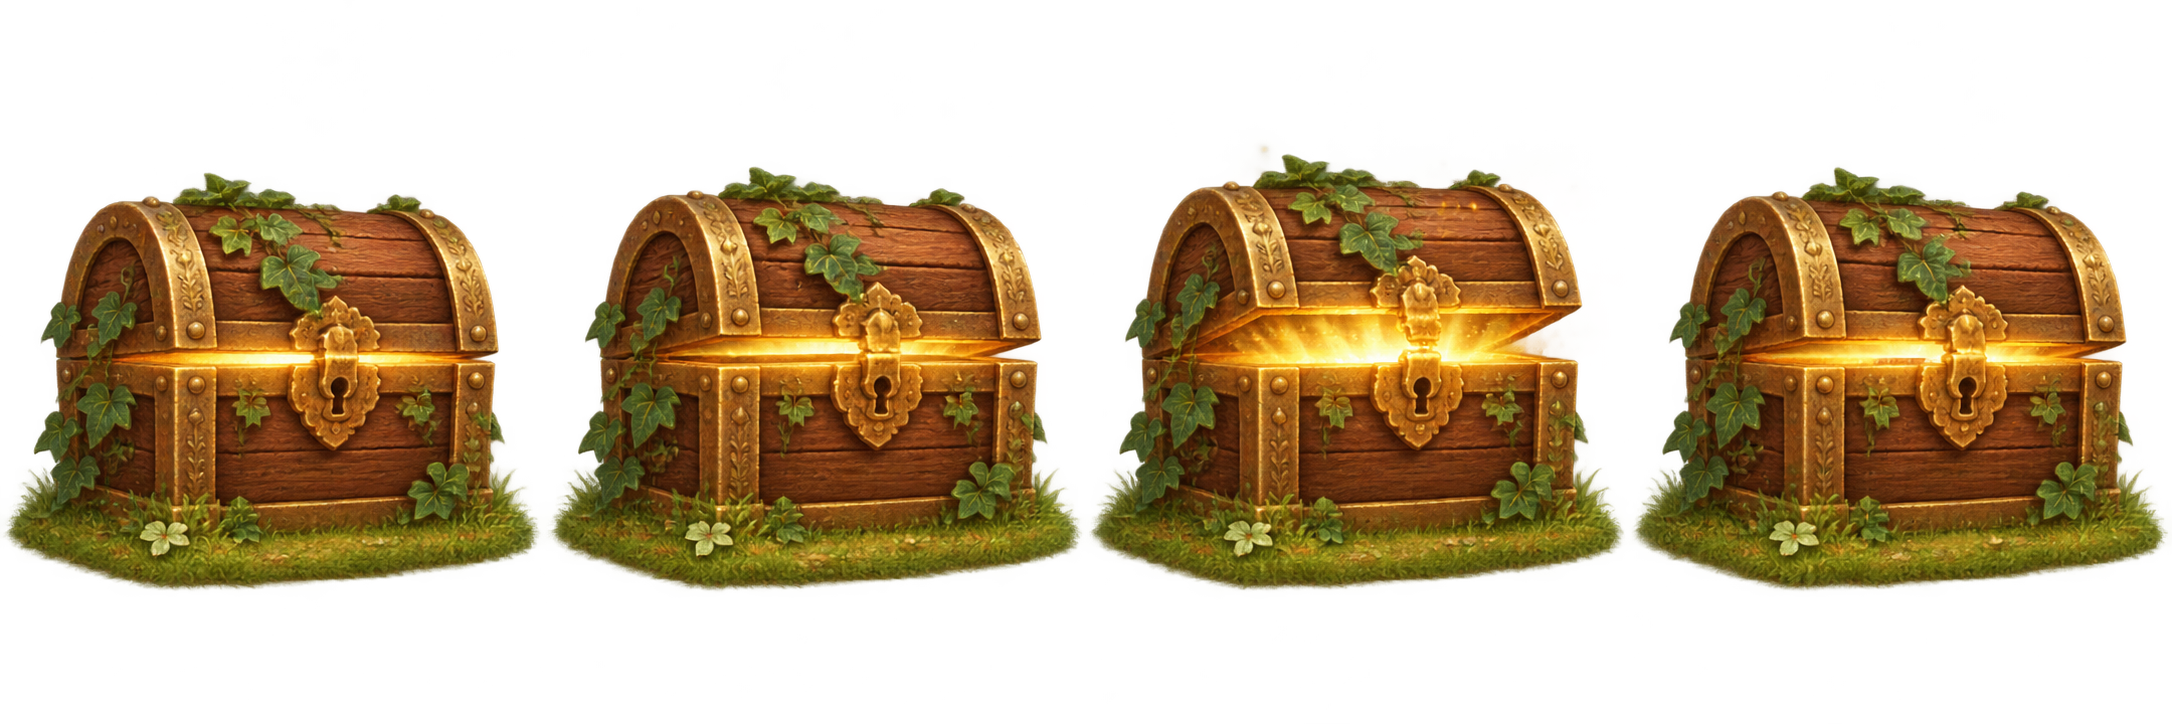
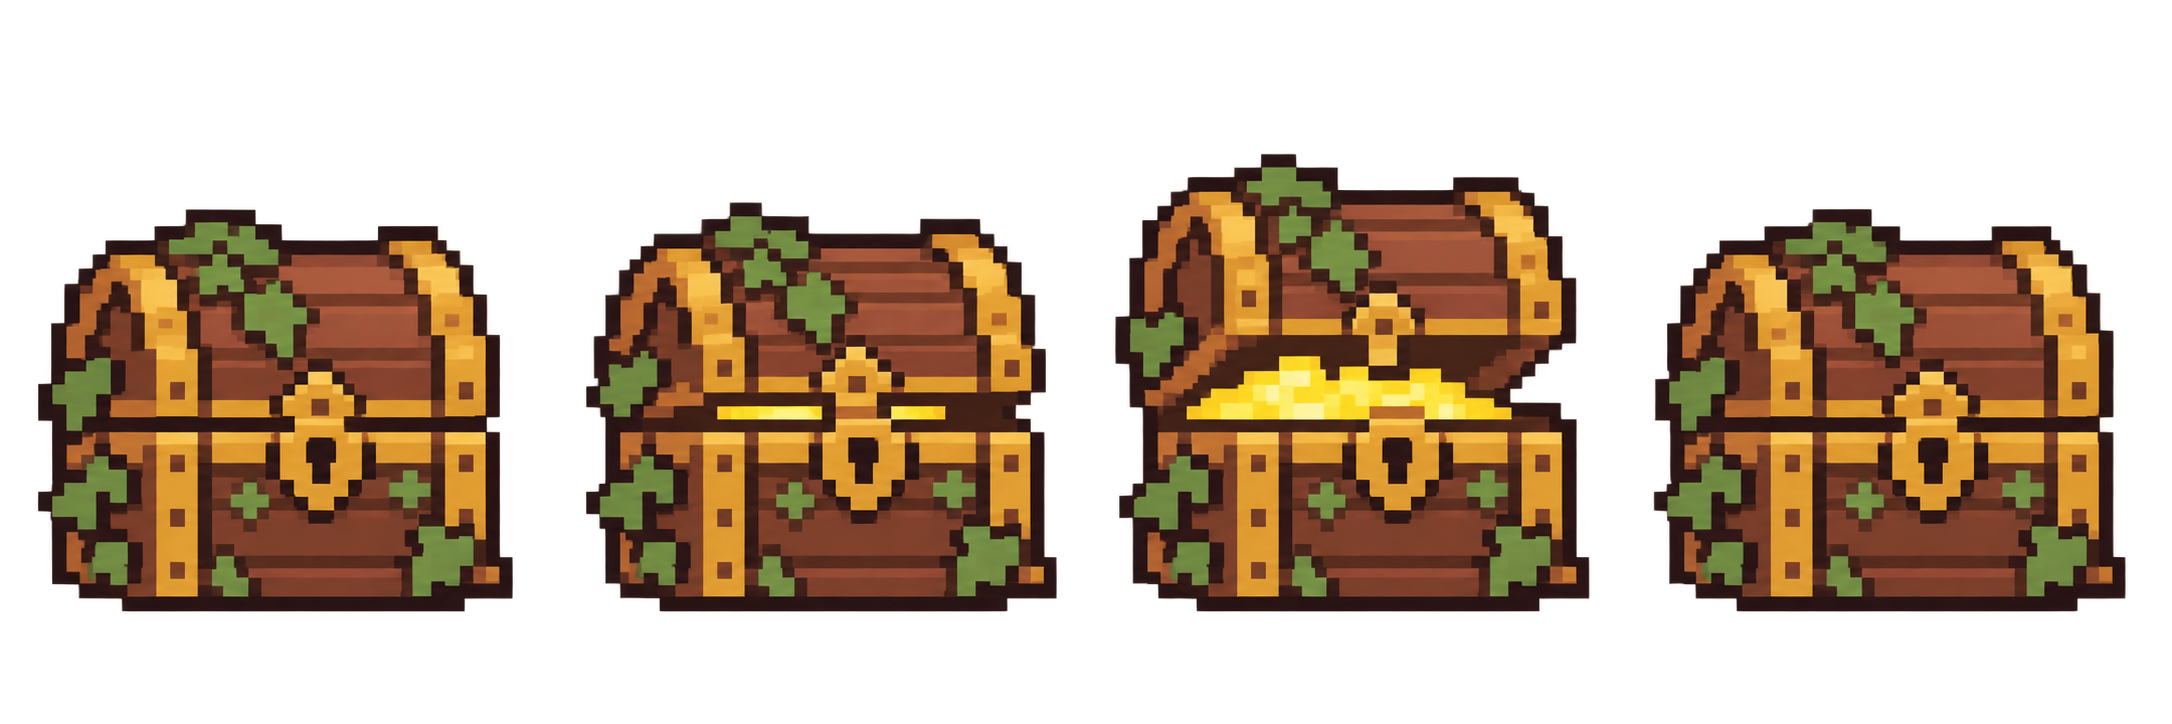
Match treasure chest to pixel calendar pets

diff --git a/app/chore-quests.css b/app/chore-quests.css
@@ -51,7 +51,7 @@ main { grid-template-columns: minmax(0, 1fr); }
 }
 .notes:has(.chore-quests) { color: var(--text); }
 
-.quest-hero, .quest-chest { image-rendering: auto; }
+.quest-hero, .quest-chest { image-rendering: pixelated; }
 
 .quest-character { display: block; width: 100%; aspect-ratio: 12 / 13; background-size: 400% 200%; background-repeat: no-repeat; image-rendering: pixelated; animation: character-idle 3s steps(1, end) infinite; }
 .quest-character.character-celebrate { background-position-y: 100%; animation: character-celebrate .9s steps(4, end) 2; }

diff --git a/app/public/skins/woodland/SOURCES.md b/app/public/skins/woodland/SOURCES.md
@@ -20,3 +20,11 @@ Generation prompt:
 Use case: stylized-concept. Create a transparent PNG animation sprite sheet for a cozy woodland family calendar game widget. Exactly FOUR equal square frames arranged in ONE horizontal row, no borders or labels. Every frame shows the SAME cute richly illustrated wooden treasure chest with rounded lid, antique golden metal bands and latch, ivy vines draped over the lid and sides, a small tufted grassy moss base. Three-quarter front view. Warm magical golden light shines from within a narrow opening under the lid. Fine hand-painted storybook detail and soft dimensional shading, polished charming game asset, not chunky pixel art. All four chests same size, camera, position, ground baseline, vines and grass; entire object visible with generous transparent margin in each frame. Frame1 lid barely ajar soft golden glow; frame2 lid lifted a tiny bit more brighter glow; frame3 lid raised slightly further with strongest warm inner glow and a few tiny golden motes; frame4 same as frame2 to smoothly loop back. Motion extremely subtle, base perfectly stationary. No characters, no castle, no lettering, no scenery beyond the grass immediately around the chest. Genuine transparent alpha background. Wide 4:1 sheet, four exactly equal cells.
 
 Current animated companions and their generation records are in `app/public/characters/` and `docs/characters/`.
+
+## Pixel treasure chest refresh
+
+`quest-chest.png` was restyled using built-in image generation to match the calendar pets: chunky stepped outlines, a limited brown/gold/green palette, simplified ivy, and flat pixel clusters. Four equal transparent cells retain the closed → ajar → open → closed animation and existing 3:4 frame ratio. All four poses were visually inspected for complete outlines, separation, and consistent base placement. CSS now uses pixelated scaling.
+
+Prompt:
+
+Restyle the attached treasure chest animation strip as chunky 16-bit pixel art matching the attached pixel otter. Output one horizontal 3:1 canvas with EXACTLY FOUR equal cells, true transparent background. Same wooden arched chest with gold bands and lock, a few simple green ivy leaves, dramatically simplified to broad square pixel clusters, dark stepped outlines, flat limited palette of 12-16 colors. No realistic texture, gradients, smooth shading, antialiasing, bloom or tiny details. Logical sprite roughly 40 pixels wide. Four frames left to right: closed lid; lid slightly ajar with a thin pale yellow interior; lid raised a little more showing yellow treasure; closed lid again. Keep base perfectly stationary and identical scale, perspective and location within each cell. Each chest occupies at most 80% cell width, around 55% cell height, centered horizontally, base at 82% cell height. All outlines and ivy inside each cell with transparent margins. NO ground platform, shadows, loose sparkles, text or grid. The otter is STYLE REFERENCE ONLY; do not draw an animal.
